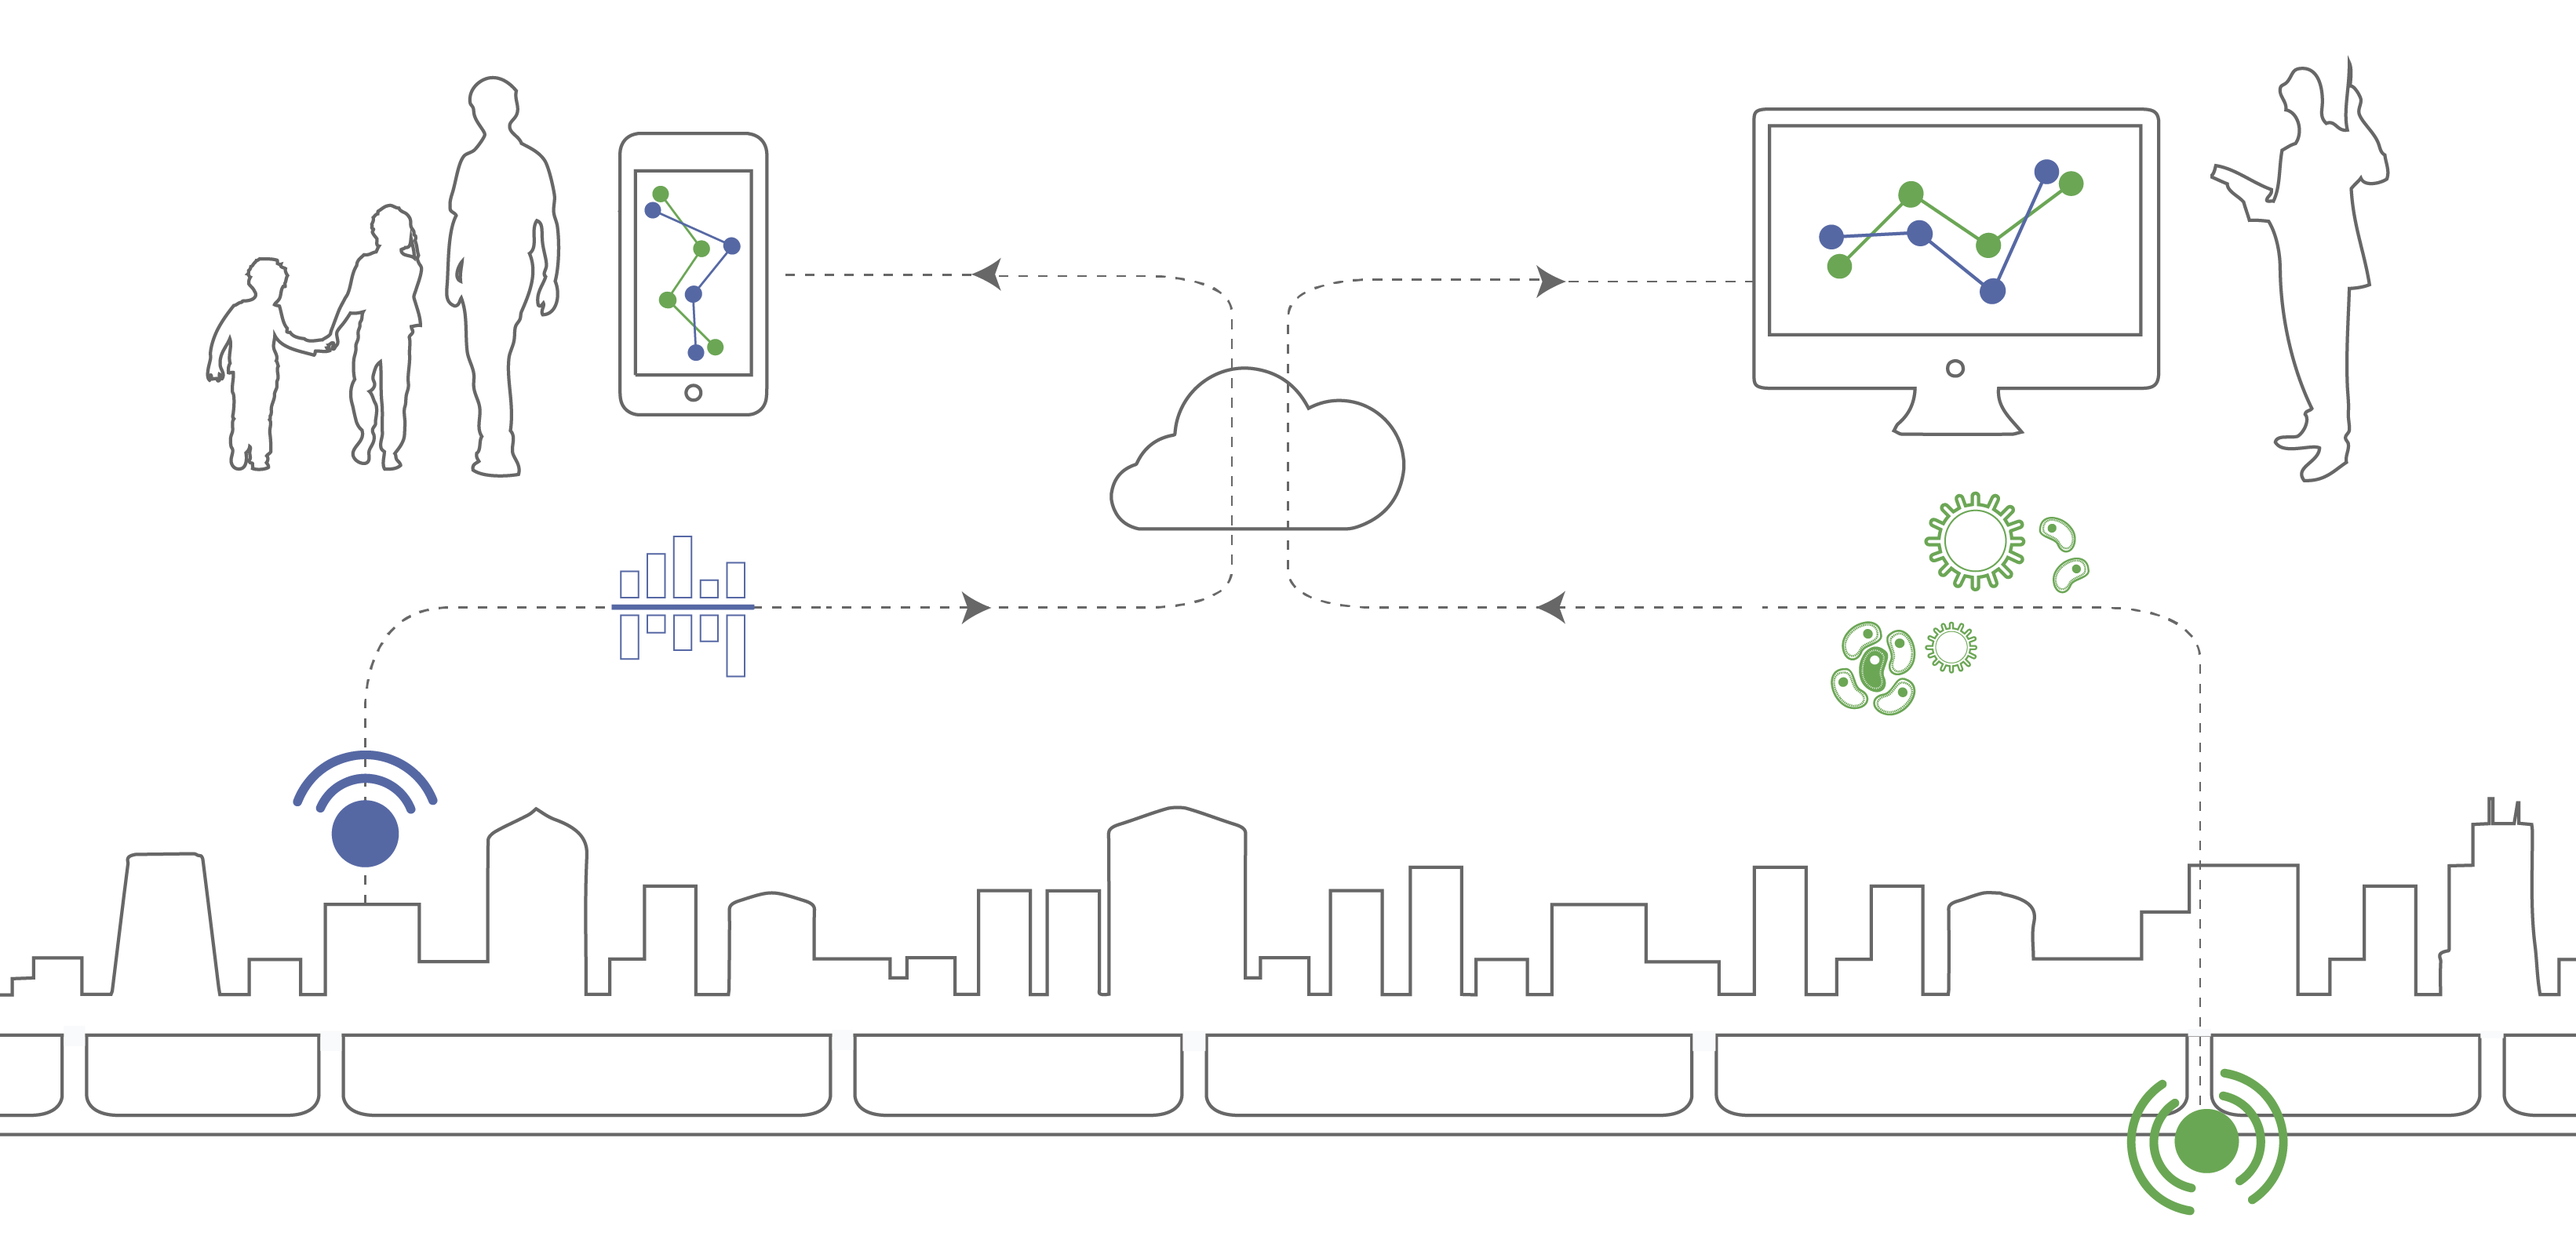
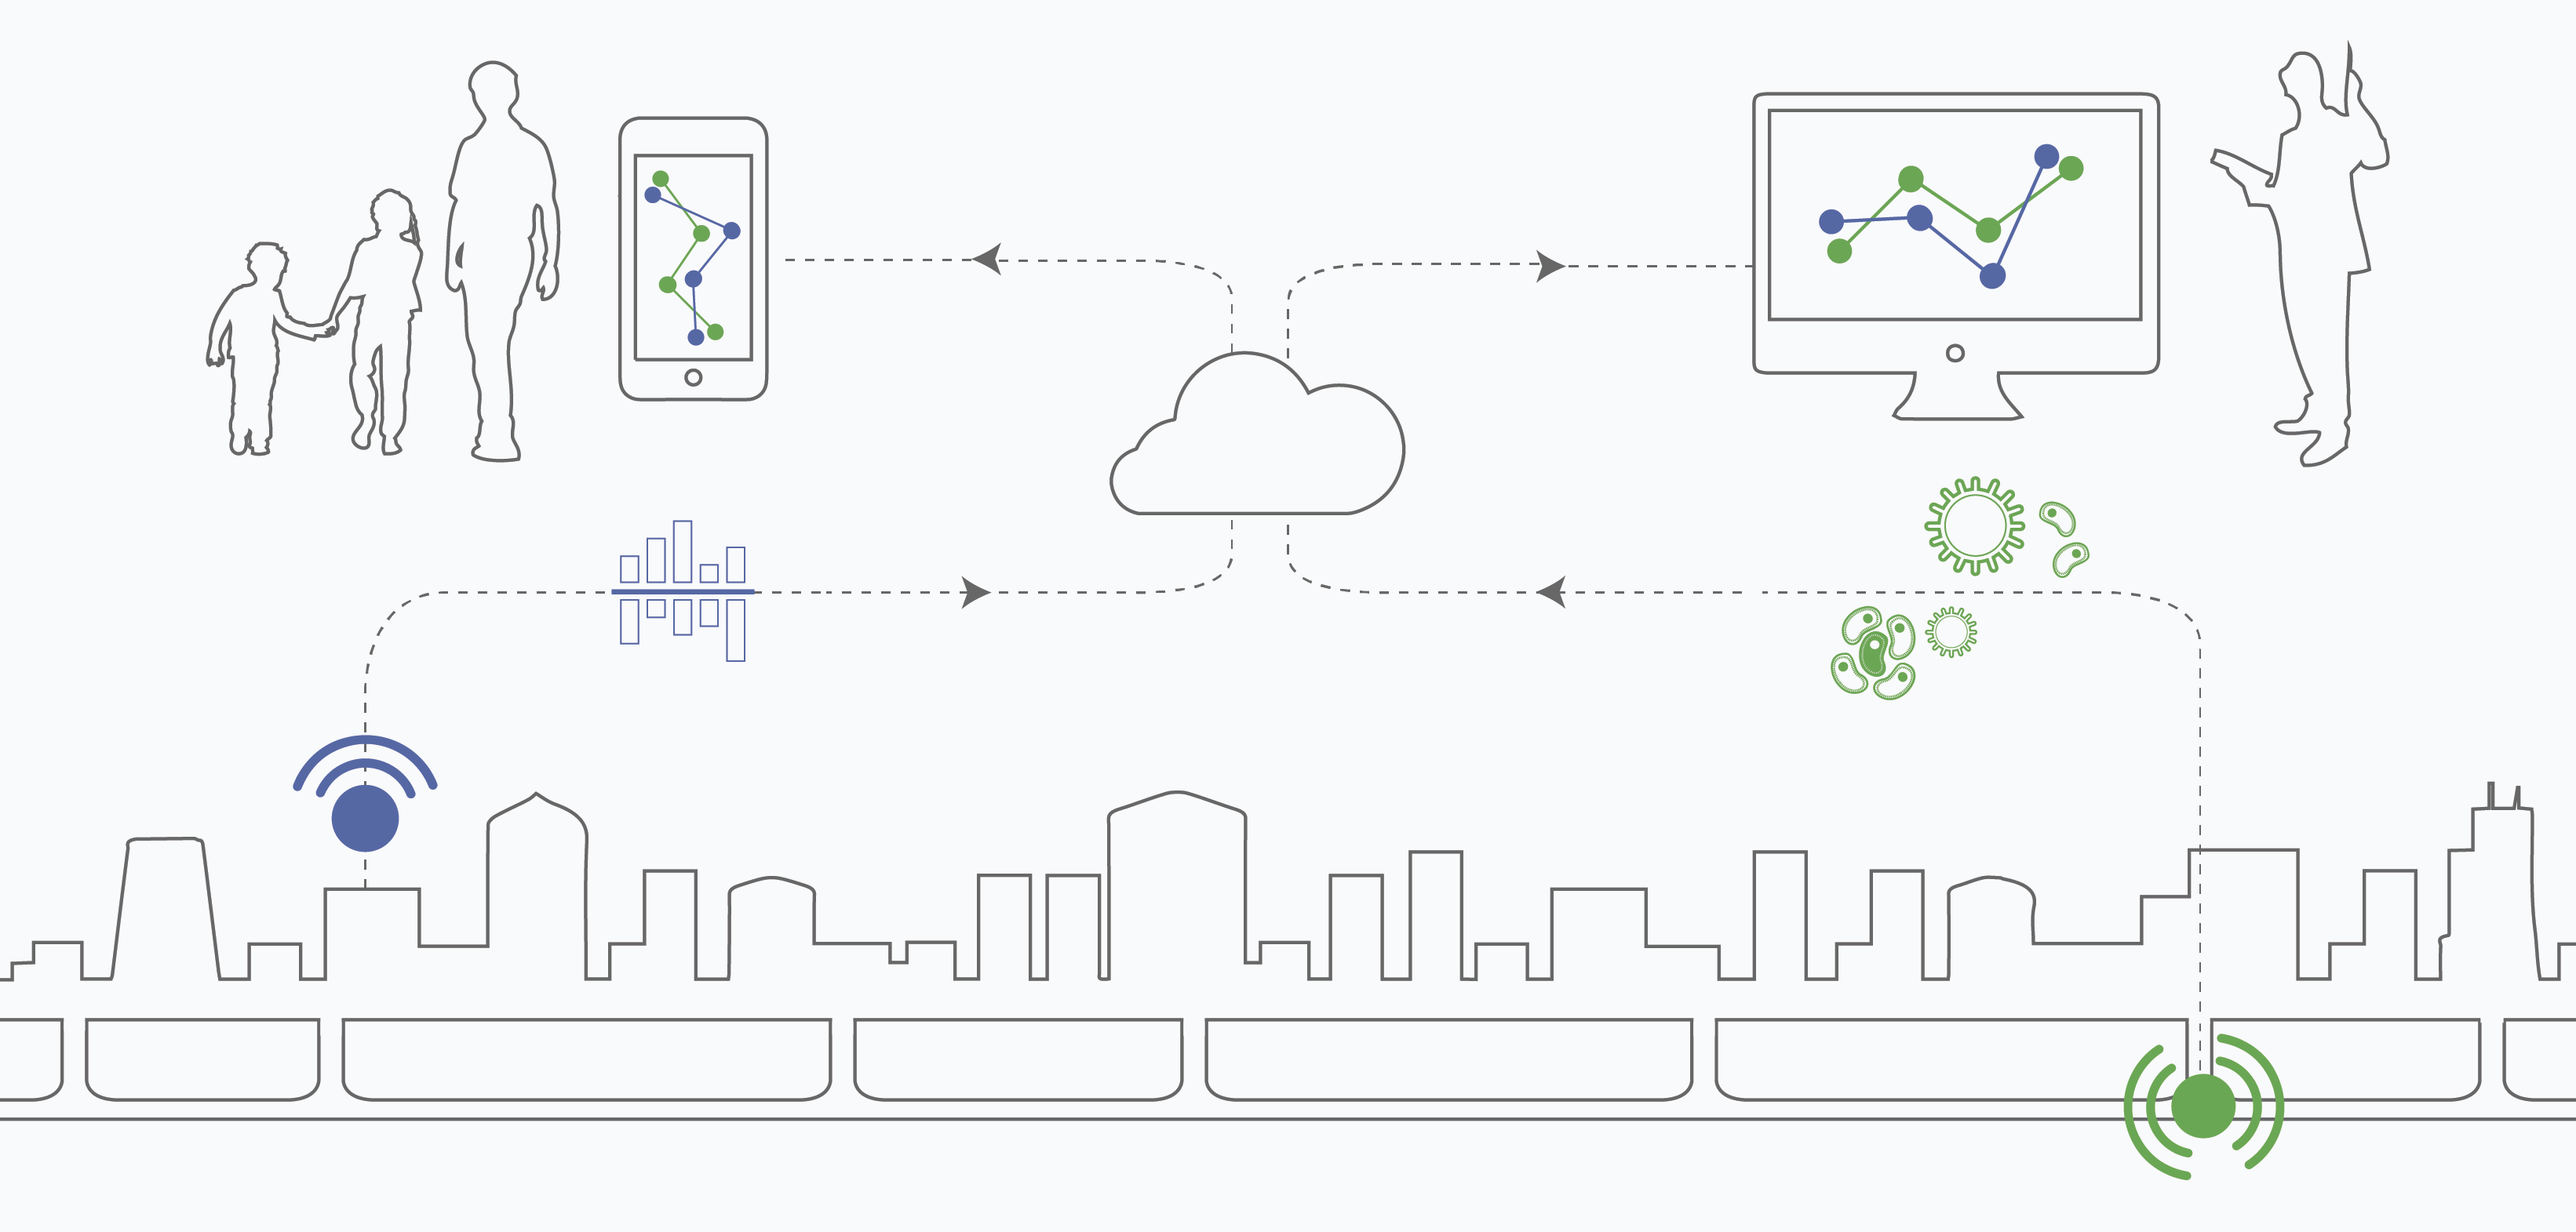
edit

diff --git a/views/index.html b/views/index.html
@@ -107,7 +107,7 @@
 		letter-spacing: 1px;
 	}
 	.home-section {
-		padding-bottom: 80px !important; 
+		padding-bottom: 70px !important; 
 	}
 </style>
 
@@ -279,7 +279,8 @@
 		</div>
 		<div class="container">
 			<!-- <img src="process_blue.png" alt="" style="width:100%;" /> -->
-			<img src="process_white2.png" alt="" style="width:92%;" />
+			<!-- <img src="process_white2.png" alt="" style="width:92%;" /> -->
+			<img src="diagram2.png" alt="" style="width:92%"/>
 <!-- 		<div class="row">
 			<div class="col-lg-2 col-lg-offset-5">
 				<hr class="marginbot-50">
